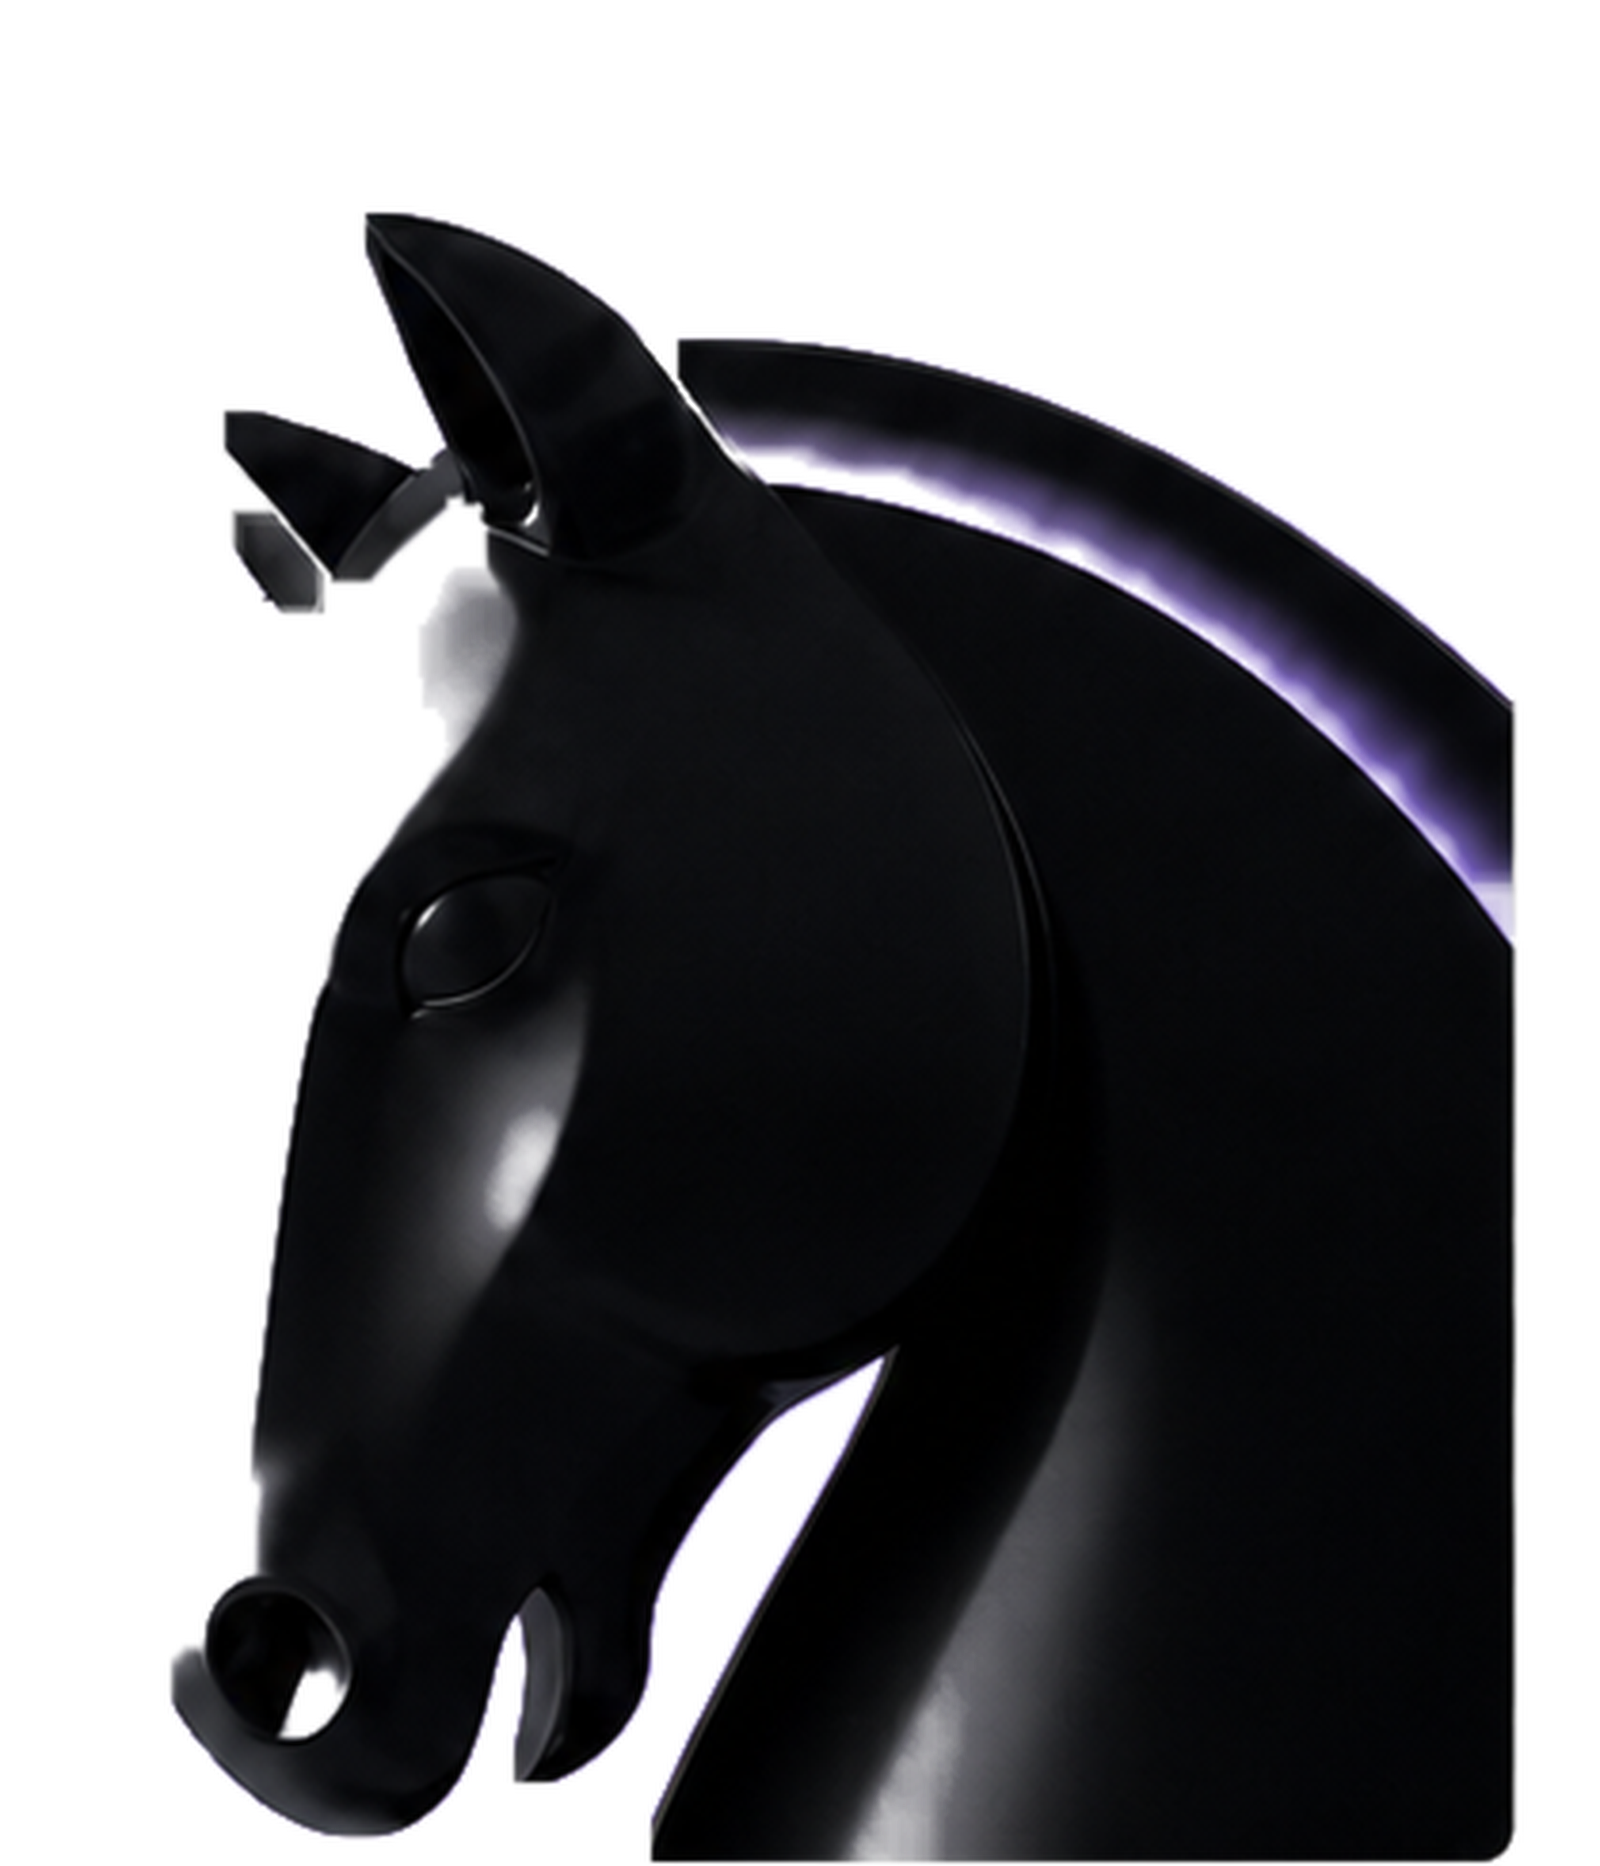
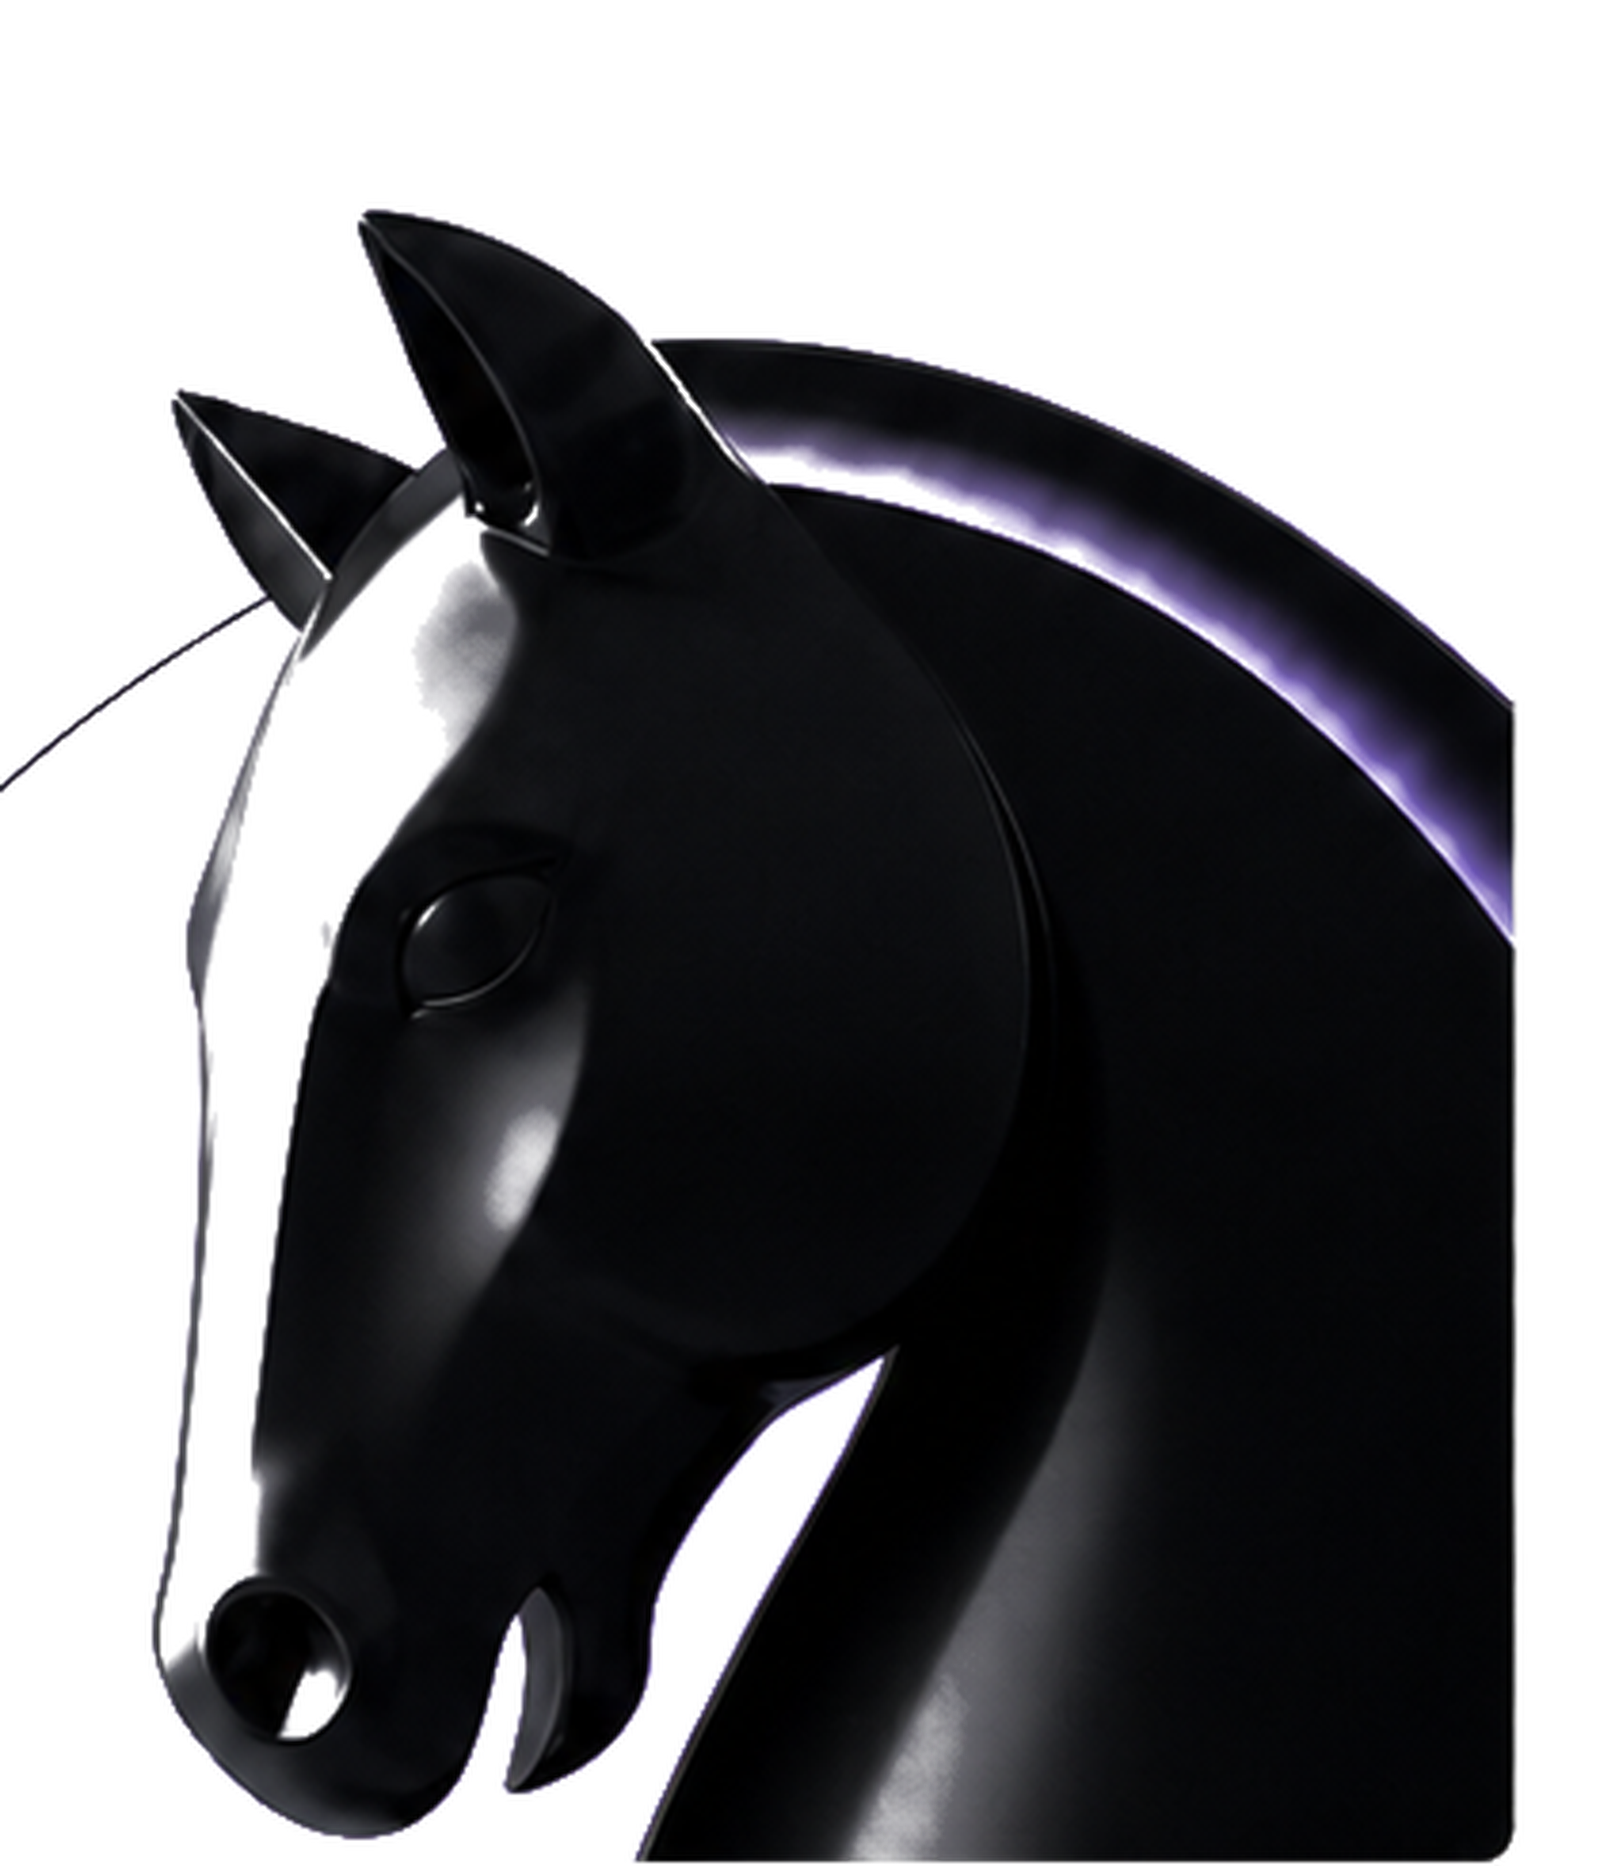
Revert: restore knight with full 3D form details and highlights

diff --git a/index.html b/index.html
@@ -18,7 +18,7 @@
     <circle cx="250" cy="250" r="248" fill="none" stroke="#0A0A0A" stroke-width="1.25"/>
     <circle cx="250" cy="250" r="184" fill="none" stroke="#6E3CFF"  stroke-width="1"/>
   </svg>
-  <img class="hero__knight" src="assets/hero/chess-knight.png?v=52" alt="" aria-hidden="true"/>
+  <img class="hero__knight" src="assets/hero/chess-knight.png?v=53" alt="" aria-hidden="true"/>
 
   <div class="hero__topbar">
     <a class="hero__logo" href="/">SNIR<span class="dot"></span></a>
